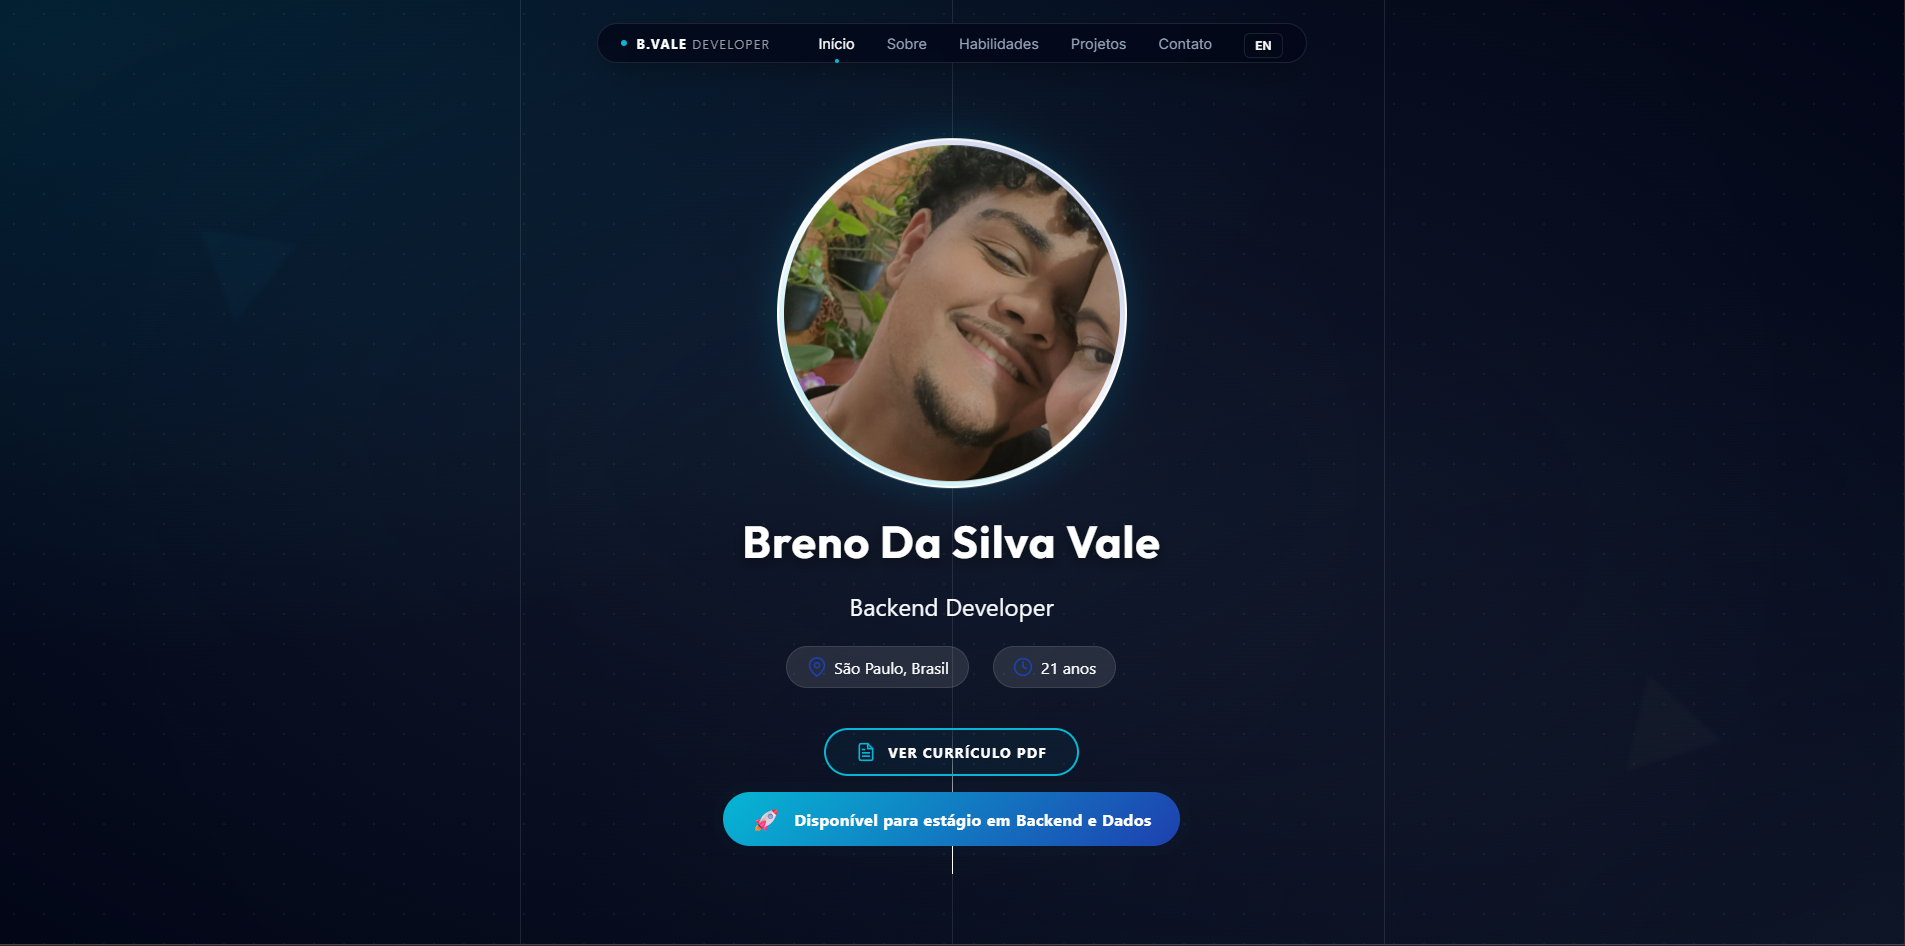
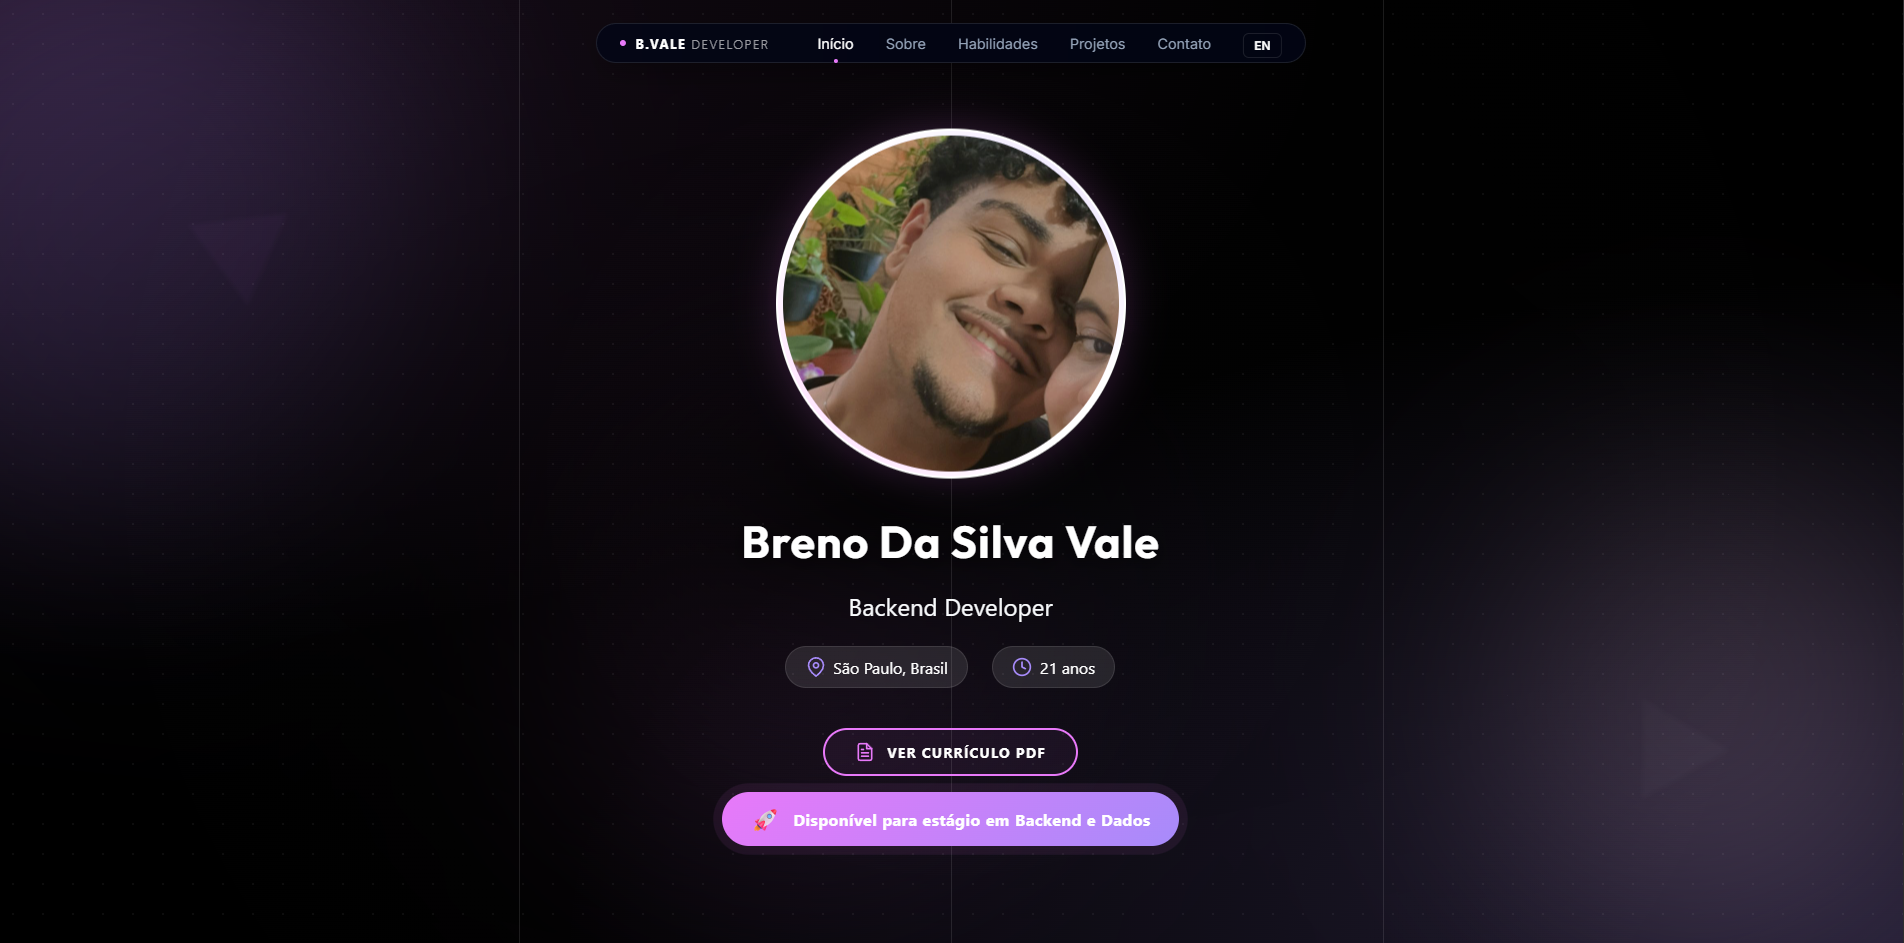
att geral

diff --git a/styles.css b/styles.css
@@ -14,10 +14,10 @@ html {
 
 /* Definição das cores principais (variáveis) pra facilitar trocas futuras */
 :root {
-    --primaria: #06b6d4; /* Cyan/Teal Profissional (Accents) */
-    --secundaria: #1e40af; /* Azul Institucional (Banking Blue) */
-    --escuro: #1e293b; /* Cinza Ardósia */
-    --maisEscuro: #020617; /* Midnight Blue Profundo */
+    --primaria: #e879f9; /* Magenta Suave (Pastel) */
+    --secundaria: #a78bfa; /* Roxo/Lavanda */
+    --escuro: #09090b; /* Preto Profundo */
+    --maisEscuro: #000000; /* Preto Absoluto */
     --cinza-claro: #94a3b8; /* Cinza para textos secundários */
     --branco: #ffffff; /* Branco Puro */
     --claro: #f8fafc; /* Branco Gelo */
@@ -51,9 +51,60 @@ body {
     width: 100%;
     height: 100%;
     background: 
-        radial-gradient(at 0% 0%, rgba(6, 182, 212, 0.15) 0px, transparent 50%),
-        radial-gradient(at 100% 100%, rgba(30, 41, 59, 0.4) 0px, transparent 50%),
-        radial-gradient(at 50% 50%, rgba(15, 23, 42, 1) 0px, transparent 100%);
+        radial-gradient(at 0% 0%, rgba(232, 121, 249, 0.1) 0px, transparent 50%),
+        radial-gradient(at 100% 100%, rgba(167, 139, 250, 0.2) 0px, transparent 50%),
+        radial-gradient(at 50% 50%, rgba(0, 0, 0, 1) 0px, transparent 100%);
+}
+
+/* --- Efeito Nebula Animado --- */
+.nebula-container {
+    position: absolute;
+    width: 100%;
+    height: 100%;
+    overflow: hidden;
+    opacity: 0.25; /* Mantém o efeito sutil como solicitado */
+}
+
+.nebula-blob {
+    position: absolute;
+    border-radius: 50%;
+    filter: blur(120px);
+    animation: nebula-movement 25s infinite alternate ease-in-out;
+}
+
+.blob-purple {
+    width: 600px;
+    height: 600px;
+    background: var(--secundaria);
+    top: -10%;
+    left: -10%;
+    animation-duration: 30s;
+}
+
+.blob-pink {
+    width: 500px;
+    height: 500px;
+    background: #fbcfe8; /* Rosa muito suave */
+    bottom: 10%;
+    right: -5%;
+    animation-duration: 20s;
+    animation-delay: -5s;
+}
+
+.blob-magenta {
+    width: 450px;
+    height: 450px;
+    background: var(--primaria);
+    top: 40%;
+    left: 30%;
+    animation-duration: 35s;
+    animation-delay: -10s;
+}
+
+@keyframes nebula-movement {
+    0% { transform: translate(0, 0) scale(1) rotate(0deg); }
+    50% { transform: translate(100px, 50px) scale(1.1) rotate(45deg); }
+    100% { transform: translate(-50px, 100px) scale(0.9) rotate(-45deg); }
 }
 
 /* Grade de pontos (Dot Grid) estética */
@@ -72,7 +123,7 @@ body {
     height: 0;
     border-left: 50px solid transparent;
     border-right: 50px solid transparent;
-    border-bottom: 86px solid rgba(6, 182, 212, 0.03); /* Cyan quase invisível */
+    border-bottom: 86px solid rgba(232, 121, 249, 0.03); /* Magenta suave quase invisível */
     filter: blur(2px);
     animation: float-triangle 20s infinite linear;
 }
@@ -200,7 +251,7 @@ body {
     transition: color 0.3s ease;
 }
 
-.menu-link:hover, .menu-link.active {
+.menu-link:hover {
     color: var(--branco);
 }
 
@@ -217,7 +268,7 @@ body {
     transition: transform 0.3s cubic-bezier(0.175, 0.885, 0.32, 1.275);
 }
 
-.menu-link:hover::after, .menu-link.active::after {
+.menu-link:hover::after {
     transform: translateX(-50%) scale(1);
 }
 
@@ -297,7 +348,7 @@ body {
     width: clamp(200px, 40vw, 350px);
     height: clamp(200px, 40vw, 350px);
     object-fit: cover;
-    box-shadow: 0 0 40px rgba(6, 182, 212, 0.2);
+    box-shadow: 0 0 40px rgba(232, 121, 249, 0.2);
     border-radius: 50%;
     padding: 5px;
     background: linear-gradient(45deg, var(--primaria), var(--branco), var(--secundaria));
@@ -491,8 +542,8 @@ h1 {
 .skill-card:hover {
     transform: translateY(-10px) scale(1.05);
     border-color: var(--branco);
-    background: rgba(6, 182, 212, 0.05);
-    box-shadow: 0 10px 30px rgba(6, 182, 212, 0.1);
+    background: rgba(232, 121, 249, 0.05);
+    box-shadow: 0 10px 30px rgba(167, 139, 250, 0.15);
 }
 
 /* --- Seção de Projetos --- */
@@ -720,7 +771,7 @@ h1 {
 .botao-form:hover {
     background-position: right center;
     transform: translateY(-3px);
-    box-shadow: 0 10px 20px rgba(30, 64, 175, 0.4);
+    box-shadow: 0 10px 20px rgba(167, 139, 250, 0.4);
 }
 
 .social-icons {
@@ -995,8 +1046,8 @@ h1 {
 }
 
 @keyframes brilho-triangular {
-    0% { filter: drop-shadow(0 0 5px rgba(6, 182, 212, 0.2)); }
-    100% { filter: drop-shadow(0 0 15px rgba(6, 182, 212, 0.4)); }
+    0% { filter: drop-shadow(0 0 5px rgba(232, 121, 249, 0.2)); }
+    100% { filter: drop-shadow(0 0 15px rgba(232, 121, 249, 0.4)); }
 }
 
 @keyframes typing {
@@ -1063,7 +1114,7 @@ h1 {
     height: 10px;
     border-radius: 50%;
     background: var(--branco);
-    box-shadow: 0 0 10px rgba(6, 182, 212, 0.5);
+    box-shadow: 0 0 10px rgba(232, 121, 249, 0.5);
     transition: all 0.3s ease;
 }
 
@@ -1561,7 +1612,7 @@ h1 {
     align-items: center;
     gap: 12px;
     padding: 12px 30px;
-    background: rgba(6, 182, 212, 0.05); /* Fundo sutil cyan */
+    background: rgba(232, 121, 249, 0.05); /* Fundo sutil magenta */
     font-family: 'Outfit', sans-serif;
     color: var(--branco);
     text-decoration: none;
@@ -1581,7 +1632,7 @@ h1 {
 
 .btn-cv:hover {
     background: var(--primaria);
-    box-shadow: 0 0 25px rgba(6, 182, 212, 0.4);
+    box-shadow: 0 0 25px rgba(232, 121, 249, 0.4);
     transform: translateY(-3px) scale(1.05);
 }
 
@@ -1612,7 +1663,7 @@ h1 {
     gap: 12px;
     
     /* Efeitos Visuais */
-    box-shadow: 0 4px 15px rgba(6, 182, 212, 0.3);
+    box-shadow: 0 4px 15px rgba(232, 121, 249, 0.3);
     z-index: 10;
     cursor: pointer;
     
@@ -1625,14 +1676,14 @@ h1 {
     /* Performance e Animação */
     transition: all 0.3s cubic-bezier(0.4, 0, 0.2, 1);
     
-    /* Mantém apenas o pulso infinito. A entrada suave é gerida pelo .animate-on-scroll */
+    /* A entrada é gerida pelo .animate-on-scroll. Mantemos apenas o pulso infinito. */
     animation: badgePulse 3s infinite 1.5s;
 }
 
 .sidebar-badge:hover {
     transform: scale(1.05);
-    box-shadow: 0 10px 25px rgba(6, 182, 212, 0.6);
-    animation-play-state: paused; /* Pausa o pulso para o hover funcionar suavemente */
+    box-shadow: 0 10px 25px rgba(232, 121, 249, 0.6);
+    animation-play-state: paused; /* Evita conflito entre o pulso e o destaque do hover */
 }
 
 .sidebar-badge-icon {
@@ -1640,19 +1691,14 @@ h1 {
 }
 
 @keyframes badgePulse {
-    0% { box-shadow: 0 0 0 0 rgba(6, 182, 212, 0.6); }
-    70% { box-shadow: 0 0 0 10px rgba(6, 182, 212, 0); }
-    100% { box-shadow: 0 0 0 0 rgba(6, 182, 212, 0); }
-}
-
-/* Pausa o pulso no hover do botão de CV também */
-.btn-cv:hover {
-    animation-play-state: paused;
+    0% { box-shadow: 0 0 0 0 rgba(232, 121, 249, 0.6); }
+    70% { box-shadow: 0 0 0 10px rgba(232, 121, 249, 0); }
+    100% { box-shadow: 0 0 0 0 rgba(232, 121, 249, 0); }
 }
 
 /* Animação de pulso específica para o botão de CV */
 @keyframes cvPulse {
-    0% { box-shadow: 0 0 0 0 rgba(6, 182, 212, 0.6); }
-    70% { box-shadow: 0 0 0 15px rgba(6, 182, 212, 0); }
-    100% { box-shadow: 0 0 0 0 rgba(6, 182, 212, 0); }
+    0% { box-shadow: 0 0 0 0 rgba(167, 139, 250, 0.6); }
+    70% { box-shadow: 0 0 0 15px rgba(167, 139, 250, 0); }
+    100% { box-shadow: 0 0 0 0 rgba(167, 139, 250, 0); }
 }

diff --git a/index.html b/index.html
@@ -17,6 +17,11 @@
 
     <!-- Decorações de Fundo Profissionais -->
     <div class="bg-decorations">
+        <div class="nebula-container">
+            <div class="nebula-blob blob-purple"></div>
+            <div class="nebula-blob blob-pink"></div>
+            <div class="nebula-blob blob-magenta"></div>
+        </div>
         <div class="mesh-gradient"></div>
         <div class="dot-grid"></div>
         <div class="floating-triangles">
@@ -52,7 +57,7 @@
             </button>
             <ul class="Menu">
                 <li>
-                    <a href="#inicio" class="menu-link active" data-i18n="nav_inicio">Início</a>
+                    <a href="#inicio" class="menu-link" data-i18n="nav_inicio">Início</a>
                 </li>
                 <li>
                     <a href="#sobre" class="menu-link" data-i18n="nav_sobre">Sobre</a>
